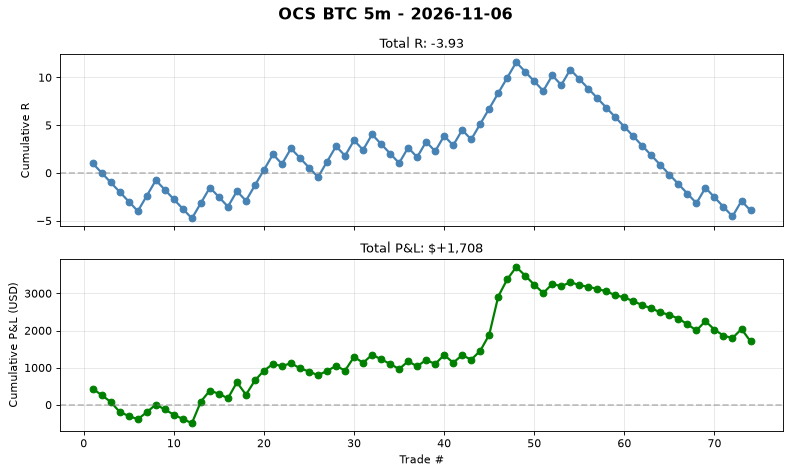
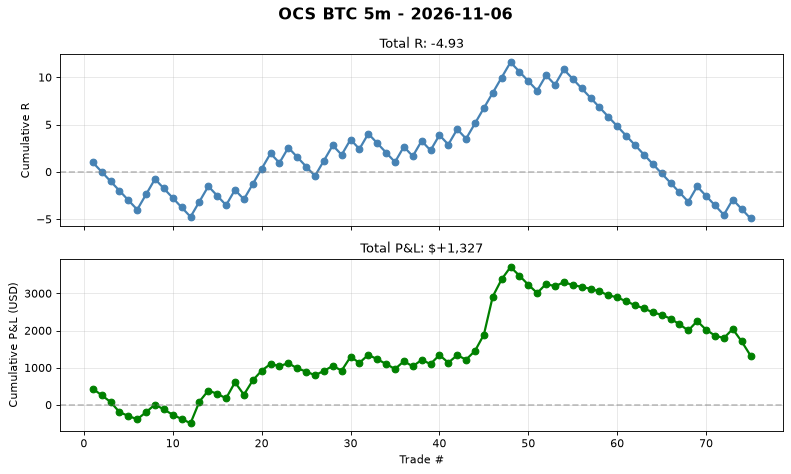
auto(ocs-btc): signal log 2026-11-06T05:06 trades=75

diff --git a/automation/reports/ocs_btc_5m/daily/2026-11-06.md b/automation/reports/ocs_btc_5m/daily/2026-11-06.md
@@ -1,5 +1,37 @@
 # OCS BTC 5m - 2026-11-06
 
-**No trades today.**
+## Summary
+- **Trades**: 1 (0W / 1L)
+- **Win Rate**: 0.0%
+- **Total R**: -1.00R
+- **Total P&L**: $-381
+- **Avg R**: -1.00R
+- **Profit Factor**: 0.9
 
-Cumulative stats: 74 trades | WR 36.5% | avg R -0.053
+## Exit Breakdown
+- T1 (+1.0R): 1
+- T2 (+1.618R): 26
+- T3 (+2.618R): 0
+- T4 (+3.618R): 0
+- T5 (+5.0R): 0
+- SL (-1.0R): 48
+
+## Best Trade
+- **LONG** at 75,944 -> SL 75,562
+- R = -1.00, P&L = $-381
+- Held for 52 bars
+
+## Worst Trade
+- **LONG** at 75,944 -> SL 75,562
+- R = -1.00, P&L = $-381
+- Held for 52 bars
+
+## Cumulative Stats (Lifetime)
+- Total trades: 75
+- WR: 36.0%
+- Avg R: -0.066
+- Total R: -4.93R
+- Profit Factor: 0.9
+
+## Chart
+See `daily/2026-11-06.png` for cumulative P&L curve.
